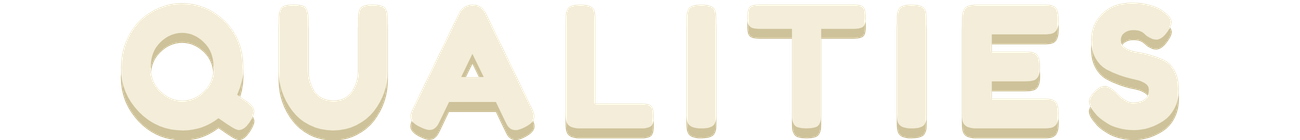
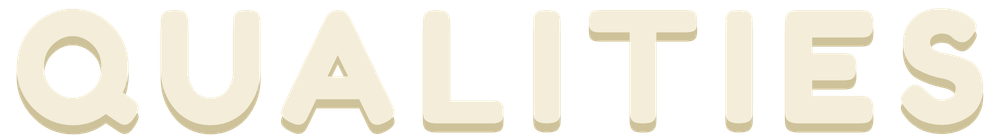
update

diff --git a/style.css b/style.css
@@ -15,7 +15,7 @@ overscroll-behavior: none;
 }
 
 #app {
-    position: fixed;
+  
     inset: 0;
     z-index: 10;
 }